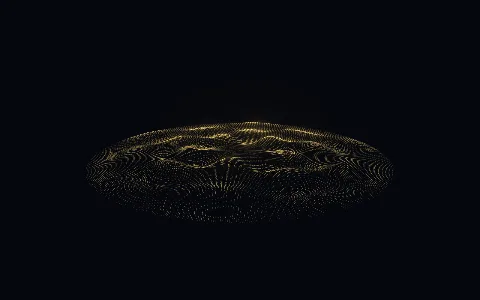
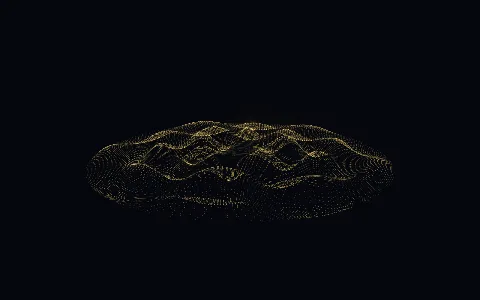
polish: Drumhead modes ring at their true inharmonic pitch + relabel (v0.1.93)
Enhancement to the existing circular-membrane system (not a new system —
the Bessel modes were already shipped). Prompted by a Mathematica post.

- Each mode now breathes at its own eigenfrequency ω ∝ λ_{m,n}, so
  switching modes changes the pitch. The ratios are inharmonic
  (1.59, 2.30, 2.92, 3.60…) — why a drum has no clear note.
- Readout shows f_{m,n}/f_{0,1} = λ_{m,n}/λ_{0,1} for the current mode.
- Relabeled 'Circular Chladni Plate' → 'Drumhead (Bessel modes)': it is a
  ∇² membrane, not a stiff ∇⁴ Chladni plate. Comment + learn doc updated.

Changed region(s): [[0.1875, 0.39, 0.8125, 0.75], [0.4688, 0.72, 0.5, 0.75]]

diff --git a/src/ui/learn/docs.extra.ts b/src/ui/learn/docs.extra.ts
@@ -2135,22 +2135,22 @@ o[1] = p.b * x[0];`,
     ]
   },
   drumhead: {
-    title: 'Circular Chladni Plate',
+    title: 'Drumhead (Bessel Modes)',
     about:
-      "A vibrating circular drumhead. Where a square plate gives the blocky Chladni grids, a clamped circular membrane rings in its own family of standing waves — the Bessel eigenmodes — whose still lines (where sand would gather) are m straight diameters crossed by n concentric circles. Pick the mode with the two sliders and the membrane settles into that pure tone, breathing up and down in place.",
+      "The standing waves of a real drum. A circular MEMBRANE clamped at its rim (a drumhead — not a stiff Chladni plate, which bends by a different, fourth-order law) rings in its own family of modes, the Bessel eigenmodes, whose still lines are m straight diameters crossed by concentric circles. Pick a mode with the two sliders and the membrane settles into it, rippling up and down. Crucially, each mode has its OWN frequency, and — unlike a string's neat 1:2:3 harmonics — a drum's overtones are INHARMONIC (ratios like 1.59, 2.30, 2.92, 3.60…). That is exactly why a drum has no clear pitch, and why tuning one is an art: this is the maths behind it. The readout shows each mode's ratio f_{m,n}/f_{0,1}, and the surface now breathes at that true relative rate.",
     howItWorks:
-      "The standing waves of a membrane fixed at its rim are uₘₙ(r,θ) = Jₘ(λₘₙ·r)·cos(mθ), where Jₘ is the order-m Bessel function and λₘₙ is its n-th positive zero — chosen precisely so the rim r=1 is a node (Jₘ(λₘₙ)=0). The angular factor cos(mθ) vanishes on m evenly-spaced diameters; the radial factor Jₘ(λₘₙ·r) vanishes on n interior circles (the earlier zeros of Jₘ), unevenly spaced and bunched toward the rim — the signature of a real drum, not the even rings of a naive sine. Points are laid on an area-uniform polar grid, displaced in height by u·cos(ωt) so the whole mode oscillates, and coloured once by |u| (gold antinode lobes, dark nodal lines). Bessel is evaluated only when you change the mode; each frame is a cheap cosine scale, so it can never blow up.",
+      "The standing waves of a membrane fixed at its rim are uₘₙ(r,θ,t) = Jₘ(λₘₙ·r)·cos(mθ)·cos(ωₘₙt), where Jₘ is the order-m Bessel function and λₘₙ is its n-th positive zero — chosen precisely so the rim r=1 is a node (Jₘ(λₘₙ)=0). The angular factor cos(mθ) vanishes on m evenly-spaced diameters; the radial factor vanishes on n−1 interior circles (the earlier zeros of Jₘ), unevenly spaced and bunched toward the rim — the signature of a real drum, not the even rings of a naive sine. The temporal frequency is set by the SAME zero, ωₘₙ ∝ λₘₙ, so the fundamental (m=0,n=1) uses λ=2.405 and every other mode's pitch is λₘₙ/2.405 times higher — the inharmonic ratios shown in the readout. Points are laid on an area-uniform polar grid, displaced in height by u·cos(ωₘₙt), and coloured once by |u| (gold antinode lobes, dark nodal lines). Bessel is evaluated only when you change the mode; each frame is a cheap cosine scale.",
     equations: [
       { label: 'circular membrane eigenmode', latex: 'u_{mn}(r,\\theta,t) = J_m(\\lambda_{mn}\\,r)\\,\\cos(m\\theta)\\,\\cos(\\omega t)' },
       { label: 'fixed rim (node) sets λ', latex: 'J_m(\\lambda_{mn}) = 0\\quad(\\lambda_{mn}=\\text{the }n\\text{-th zero of }J_m)' },
-      { label: 'nodal set', latex: 'm\\text{ diameters } (\\cos m\\theta=0)\\ +\\ n\\text{ circles } (J_m(\\lambda_{mn}r)=0)' },
-      { label: 'Bessel function', latex: 'J_m(x)=\\sum_{k=0}^{\\infty}\\frac{(-1)^k}{k!\\,(k+m)!}\\Big(\\frac{x}{2}\\Big)^{2k+m}' },
+      { label: 'nodal set', latex: 'm\\text{ diameters } (\\cos m\\theta=0)\\ +\\ (n{-}1)\\text{ circles } (J_m(\\lambda_{mn}r)=0)' },
+      { label: 'inharmonic overtone ratio (the drum-tuning point)', latex: '\\frac{f_{m,n}}{f_{0,1}} = \\frac{\\lambda_{m,n}}{\\lambda_{0,1}} = \\frac{\\lambda_{m,n}}{2.40483\\ldots}' },
     ],
     params: [
       { key: 'circles', symbol: 'n', meaning: 'number of concentric nodal circles (radial nodes) — selects the n-th zero of Jₘ' },
       { key: 'diameters', symbol: 'm', meaning: 'number of nodal diameters (angular nodes) — the order of the Bessel function Jₘ' },
       { key: 'relief', symbol: 'r', meaning: 'vertical exaggeration of the mode shape u·relief' },
-      { key: 'speed', symbol: '\\omega', meaning: 'how fast the mode oscillates up and down in time' },
+      { key: 'speed', symbol: '\\dot t', meaning: 'base tempo — each mode then ripples at its true relative frequency λₘₙ/λ₀₁' },
     ],
     code: "// eigenmode (computed once per mode change; per frame is just a cos(ωt) scale)\nconst lambda = besselJzero(m, nCircles + 1); // (nCircles+1)-th zero of J_m ⇒ rim is a node\nfor (each point on an area-uniform polar disk at (r, θ)) {\n  const u = besselJn(m, lambda * r) * Math.cos(m * θ); // r ∈ [0,1]\n  // height y = u * cos(ω t) * relief ; colour once by |u| (gold lobes, dark nodes)\n}",
     links: [

diff --git a/src/archetypes/drumhead.ts b/src/archetypes/drumhead.ts
@@ -9,13 +9,15 @@ import type {
 } from '../core/archetype';
 import { besselJn, besselJzero } from './bessel';
 
-// Circular Chladni plate / vibrating drumhead. The standing waves of a circular membrane fixed at its
-// rim are the Bessel eigenmodes uₘₙ(r,θ) = Jₘ(λₘₙ·r)·cos(mθ), where λₘₙ is the n-th positive zero of the
-// Bessel function Jₘ (so the rim r=1 is a node, Jₘ(λₘₙ)=0). The nodal set — where the membrane stands
-// still and the "sand" collects — is m straight diameters (cos mθ = 0) plus n concentric circles (the
-// interior zeros of Jₘ). Sampled as a sunflower (phyllotaxis) disk of points displaced by y = u·cos(ωt)
-// (the mode breathing in time) and coloured ONCE by |u| so the nodal figure (dark) is always visible.
-// Bessel is evaluated only on a mode change; per frame is just a cheap cos(ωt) scale. Bounded ∀t.
+// Vibrating drumhead — the normal modes of a circular MEMBRANE (∇²u = c⁻²ü, unlike a stiff Chladni
+// PLATE which is ∇⁴). Fixed at its rim, the standing waves are the Bessel eigenmodes
+// uₘₙ(r,θ) = Jₘ(λₘₙ·r)·cos(mθ), where λₘₙ is the n-th positive zero of Jₘ (so the rim r=1 is a node,
+// Jₘ(λₘₙ)=0). The nodal set — where the membrane stands still — is m straight diameters (cos mθ = 0)
+// plus n−1 concentric circles (the interior zeros of Jₘ). Each mode has its OWN frequency ωₘₙ ∝ λₘₙ,
+// and those ratios are inharmonic (2.295, 3.598, 1.593…), which is why a drum is not pitched like a
+// string. Sampled as an area-uniform polar disk displaced by y = u·cos(ωₘₙ·t) and coloured ONCE by |u|
+// so the nodal figure (dark) reads. Bessel is evaluated only on a mode change; per frame is a cheap
+// cos scale. Bounded ∀t.
 const TAU = Math.PI * 2;
 const SCALE = 2.5; // disk radius in render units
 
@@ -39,6 +41,9 @@ class DrumheadArchetype implements Archetype {
   private speed = 1.6;
   private t = 0;
   private modeKey = '';
+  private freqRatio = 1; // f_{m,n}/f_{0,1} = λ_{m,n}/λ_{0,1} — the true relative pitch of this mode
+  private mNodes = 5; // nodal diameters m
+  private nMode = 4; // radial index n (= circles + 1)
 
   constructor(config: ArchetypeConfig) {
     const n = config.particleCount;
@@ -57,6 +62,10 @@ class DrumheadArchetype implements Archetype {
     const m = Math.round(p.diameters ?? 5);
     this.modeKey = `${nCircles},${m}`;
     const lambda = besselJzero(m, nCircles + 1); // (nCircles+1)-th zero ⇒ nCircles interior nodal rings
+    // eigenfrequency ∝ the Bessel zero, so each mode has its own pitch: f_{m,n}/f_{0,1} = λ_{m,n}/λ_{0,1}.
+    // These ratios are INHARMONIC (2.295, 3.598, 1.593…) — why a drum sounds nothing like a string.
+    this.freqRatio = lambda / besselJzero(0, 1);
+    this.mNodes = m; this.nMode = nCircles + 1;
     const n = this.particleCount;
     let umax = 1e-6;
     // Area-uniform POLAR grid (rings × spokes, spokes ∝ circumference) — aligned with the nodal
@@ -94,7 +103,9 @@ class DrumheadArchetype implements Archetype {
   }
 
   private syncPositions(): void {
-    const osc = Math.cos(this.speed * this.t) * this.relief;
+    // breathe at the mode's TRUE eigenfrequency (∝ λ_{m,n}): higher modes ripple faster, exactly in the
+    // inharmonic ratios that guide drum tuning — switching modes now changes the pitch.
+    const osc = Math.cos(this.speed * this.freqRatio * this.t) * this.relief;
     const pos = this.positions;
     for (let i = 0; i < this.particleCount; i++) {
       const o = i * 3;
@@ -133,7 +144,7 @@ class DrumheadArchetype implements Archetype {
     this.syncPositions();
   }
   getHierarchy(): NodeSpec[] {
-    return [{ id: 'root', parentId: null, label: 'Drumhead mode', stateOffset: 0, stateLength: 1 }];
+    return [{ id: 'root', parentId: null, label: `drumhead J${this.mNodes},${this.nMode} · f/f₀₁ = ${this.freqRatio.toFixed(3)}`, stateOffset: 0, stateLength: 1 }];
   }
   renderHint(): RenderHint {
     return { geometry: 'points', pointSize: 0.01 };
@@ -145,7 +156,7 @@ class DrumheadArchetype implements Archetype {
 
 export const drumheadFactory: ArchetypeFactory = {
   id: 'drumhead',
-  label: 'Circular Chladni Plate',
+  label: 'Drumhead (Bessel modes)',
   category: 'Field',
   kind: 'flow',
   params: PARAM_SPEC,

diff --git a/src/meta/changelog.ts b/src/meta/changelog.ts
@@ -18,6 +18,16 @@ export interface Release {
 
 export const RELEASES: Release[] = [
   {
+    "version": "0.1.93",
+    "date": "2026-07-13",
+    "title": "Drumhead — modes now ring at their true (inharmonic) pitch",
+    "summary": "The circular-membrane system got the physics it was missing. Every Bessel mode now breathes at its OWN eigenfrequency (ω ∝ λ_{m,n}), so switching modes changes the pitch — and those ratios are inharmonic (1.59, 2.30, 2.92, 3.60…), which is exactly why a drum has no clear note. The readout shows each mode's f_{m,n}/f_{0,1}. Also relabeled from 'Circular Chladni Plate' (a drumhead is a membrane, not a stiff plate).",
+    "newSystems": [],
+    "notes": [
+      "Drumhead (Bessel modes): modes ripple at their true relative frequency λ_{m,n}/λ_{0,1} instead of a fixed rate — the inharmonic overtone ratios that guide drum tuning; the readout now shows f_{m,n}/f_{0,1}. Renamed from 'Circular Chladni Plate' for physical accuracy (∇² membrane, not a ∇⁴ plate). Prompted by a Mathematica post; the underlying modes were already shipped, so this is a polish, not a duplicate."
+    ]
+  },
+  {
     "version": "0.1.92",
     "date": "2026-07-13",
     "title": "Fix: Penrose Tiling froze the render",

diff --git a/src/version.ts b/src/version.ts
@@ -2,4 +2,4 @@
 // image records the version that produced it). Bump the PATCH on every shipped change — new
 // systems, features, or any change to the snapshot/import file format or its validation — even
 // when backward-compatible. Bump MINOR for larger feature waves, MAJOR for breaking format changes.
-export const APP_VERSION = '0.1.92';
+export const APP_VERSION = '0.1.93';
